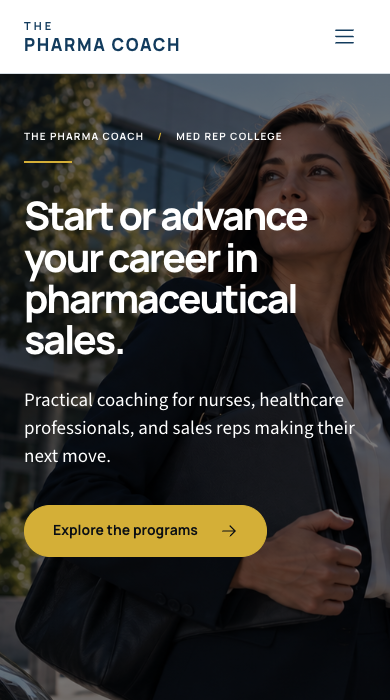
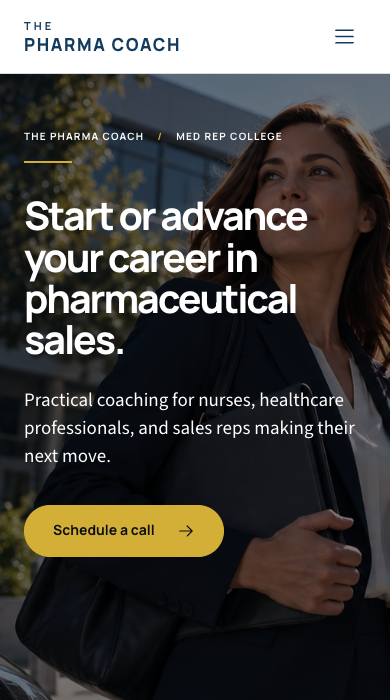
Apply Pharma Coach review comments to local preview

Changed region(s): [[0.5231, 0.72, 0.7077, 0.81], [0.1231, 0.75, 0.5231, 0.78]]

diff --git a/src/App.jsx b/src/App.jsx
@@ -2,6 +2,7 @@ import { useState } from "react";
 import { ArrowRight, List, X } from "@phosphor-icons/react";
 
 const A = `${import.meta.env.BASE_URL}assets/source/`;
+const bookingUrl = "https://medrepcollege.com/book-a-call-with-jebb";
 
 const programs = [
   { tier: "Self-paced", name: "Fast Track Academy", price: "$899", note: "A focused path for turning your current experience into a pharmaceutical-sales job search.", href: "https://medrepcollege.com/fast-track-checkout", cta: "Start my pharma path" },
@@ -10,10 +11,10 @@ const programs = [
 ];
 
 const objections = [
-  ["Do I need pharmaceutical sales experience?", "No. Your nursing and healthcare experience gives you clinical fluency, credibility and an understanding of how providers make decisions. The work is learning how to position those strengths for a commercial role."],
-  ["How does my nursing experience translate to pharma sales?", "You already educate patients, communicate with providers, build trust and make complex clinical information understandable. Those are valuable strengths in pharma sales when they are connected to business outcomes and a clear sales story."],
-  ["What if I have healthcare experience but no formal sales experience?", "You are not starting from zero. Patient education, care coordination, provider communication and influencing better outcomes all demonstrate transferable skills. Coaching helps you translate them into the language hiring managers expect."],
-  ["How do I know pharmaceutical sales is the right fit for me?", "Pharma is often a strong fit for healthcare professionals who enjoy science, relationship-building and explaining how treatments work. A career diagnosis helps you assess the role, the lifestyle and your clearest path before you begin applying."],
+  ["Do I need pharmaceutical sales experience?", "No. Sales, healthcare, teaching and other customer-facing backgrounds can bring transferable strengths. The work is showing how your results, relationships and ability to learn complex information fit a pharmaceutical sales role."],
+  ["How does my sales or healthcare experience translate to pharma?", "Sales professionals can show prospecting, relationship-building and performance results. Healthcare professionals can show clinical fluency, provider communication and patient education. Both need a clear story that connects those strengths to pharmaceutical sales."],
+  ["What if I have no formal sales experience?", "You are not necessarily starting from zero. Teaching, patient education, care coordination and other roles can demonstrate communication, influence and follow-through. Coaching helps you identify credible examples and present them in the language hiring managers expect."],
+  ["How do I know pharmaceutical sales is the right fit for me?", "Consider whether you enjoy science, relationship-building, explaining complex information and being accountable for commercial results. A career diagnosis can help you assess the role, the lifestyle and your next step before you apply."],
   ["Why pharma instead of medical device sales?", "Pharma often suits people drawn to clinical science, mechanisms of action and long-term provider relationships. Device sales is typically more procedure- and engineering-oriented. The right choice depends on how you think, work and want to spend your day."],
 ];
 
@@ -37,7 +38,7 @@ function Header() {
       </button>
       <nav id="primary-nav" className={open ? "nav nav--open" : "nav"} aria-label="Primary navigation">
         {links.map(([label, href]) => <a key={label} href={href} onClick={() => setOpen(false)}>{label}</a>)}
-        <Button href="https://www.thepharmacoach.com/apply-for-pharmaceutical-sales-career-coaching">Let's talk</Button>
+        <Button href={bookingUrl}>Schedule a call</Button>
       </nav>
     </header>
   );
@@ -55,12 +56,12 @@ export function App() {
             <p className="eyebrow eyebrow--light">The Pharma Coach <span aria-hidden="true">/</span> Med Rep College</p>
             <h1 id="hero-title">Start or advance your career in pharmaceutical sales.</h1>
             <p className="lead">Practical coaching for nurses, healthcare professionals, and sales reps making their next move.</p>
-            <Button href="#programs" tone="gold">Explore the programs</Button>
+            <Button href={bookingUrl} tone="gold">Schedule a call</Button>
           </div>
         </section>
 
         <section className="brand-strip" aria-label="What we help you do">
-          <a href="#why-pharma"><span>01</span><strong>Understand the field</strong><p>See how your healthcare experience translates to pharmaceutical sales.</p><ArrowRight size={19} aria-hidden="true" /></a>
+          <a href="#why-pharma"><span>01</span><strong>Understand the field</strong><p>See how your sales or healthcare experience translates to pharmaceutical sales.</p><ArrowRight size={19} aria-hidden="true" /></a>
           <a href="#method"><span>02</span><strong>Build your strategy</strong><p>Position your strengths with the $100K Med Rep Method.</p><ArrowRight size={19} aria-hidden="true" /></a>
           <a href="#programs"><span>03</span><strong>Make your move</strong><p>Choose the right level of coaching for your next career step.</p><ArrowRight size={19} aria-hidden="true" /></a>
         </section>
@@ -68,14 +69,14 @@ export function App() {
         <section id="why-pharma" className="why-pharma section-pad">
           <div className="why-pharma__intro">
             <p className="eyebrow">Why Pharma Sales</p>
-            <h2>Keep the healthcare knowledge. Change what your career can give you.</h2>
-            <p className="lead">Pharma sales lets nurses and healthcare professionals bring clinical credibility into a career built around education, influence and trusted provider relationships.</p>
+            <h2>Bring your experience into a bigger career move.</h2>
+            <p className="lead">Pharma sales gives people from sales and healthcare backgrounds a way to use their existing strengths in a career built around education, influence and trusted provider relationships.</p>
           </div>
           <div className="why-pharma__reasons">
-            <article><span>01</span><div><h3>Use your clinical advantage</h3><p>Turn your understanding of treatments, patient needs and provider priorities into relevant conversations with healthcare professionals.</p></div></article>
+            <article><span>01</span><div><h3>Use your existing advantage</h3><p>Bring sales results or clinical knowledge into relevant conversations with healthcare professionals.</p></div></article>
             <article><span>02</span><div><h3>Expand your earning opportunity</h3><p>Pursue roles that can combine salary, performance incentives and benefits while building a long-term commercial career.</p></div></article>
             <article><span>03</span><div><h3>Create more autonomy</h3><p>Move toward a field-based career with greater ownership of your schedule, territory and professional relationships.</p></div></article>
-            <article><span>04</span><div><h3>Move beyond bedside burnout</h3><p>Stay connected to healthcare and patient impact without remaining tied to rigid shifts, physical demands or constant patient load.</p></div></article>
+            <article><span>04</span><div><h3>Move beyond a stalled path</h3><p>Pursue a new challenge or your next level in healthcare without staying tied to the role that no longer fits.</p></div></article>
           </div>
         </section>
 
@@ -114,16 +115,16 @@ export function App() {
 
         <section className="outcomes section-pad">
           <div className="outcomes__intro">
-            <p className="eyebrow">What the career change is really for</p>
-            <h2>More upside. More autonomy. A career beyond shifts and burnout.</h2>
+            <p className="eyebrow">What your next move is really for</p>
+            <h2>More upside. More autonomy. A career with room to grow.</h2>
           </div>
           <div className="outcome-grid">
             <article><span>01</span><h3>Earning upside</h3><p>Compete for roles with salary, commission and benefits—without treating any result as guaranteed.</p></article>
-            <article><span>02</span><h3>More control</h3><p>Pursue a field known for greater schedule autonomy than rigid shifts or constant patient load.</p></article>
+            <article><span>02</span><h3>More control</h3><p>Pursue a field role with more ownership of your territory, schedule and professional relationships.</p></article>
             <article><span>03</span><h3>A better fit</h3><p>Use your science, relationship and communication strengths in a career built around influence.</p></article>
           </div>
           <div className="photo-band">
-            <img src={`${A}jebb-authentic-family-candid.jpg`} alt="Jebb Ruff with his mother in a candid family photo" />
+            <img src={`${A}jebb-executive-portrait-review.png`} alt="Executive-style portrait of Jebb Ruff" />
             <blockquote><p>Pharmaceutical sales rewards people who understand the science, earn trust and make complex information simple.</p><cite>The Pharma Coach approach</cite></blockquote>
           </div>
         </section>
@@ -148,7 +149,7 @@ export function App() {
         </section>
 
         <section className="faq section-pad">
-          <div><p className="eyebrow eyebrow--light">Before you decide</p><h2>Can nursing really become a pharma sales career?</h2><p>Start with the questions experienced nurses and healthcare professionals ask when they are serious about making the move.</p></div>
+          <div><p className="eyebrow eyebrow--light">Before you decide</p><h2>Is pharmaceutical sales the right next step for you?</h2><p>Start with the questions sales professionals, healthcare workers and career changers ask when they are ready to enter or advance in the field.</p></div>
           <div className="accordion">
             {objections.map(([q, a], i) => <article key={q}>
               <button aria-expanded={active === i} onClick={() => setActive(active === i ? -1 : i)}><span>{q}</span><b aria-hidden="true">{active === i ? "−" : "+"}</b></button>
@@ -159,7 +160,7 @@ export function App() {
 
         <section className="final-cta section-pad">
           <div><p className="eyebrow">Your next chapter</p><h2>Ready to make your experience count in pharma?</h2><p>Find out whether pharmaceutical sales fits you—and what your clearest path into the field looks like.</p></div>
-          <Button href="https://medrepcollege.com/book-a-call-with-jebb">Book my career diagnosis</Button>
+          <Button href={bookingUrl}>Book my career diagnosis</Button>
         </section>
       </main>
       <footer>

diff --git a/design-qa.md b/design-qa.md
@@ -1,6 +1,6 @@
 # Design QA — The Pharma Coach brand refresh
 
-Final result: passed
+Final result: local preview passed; AI-edited Jebb portrait requires owner and Jebb approval before publication
 
 ## Source and capture
 
@@ -8,6 +8,7 @@ Final result: passed
 - Owner override: Jebb's 2026-09-21 email "colors for websites and emails + fonts" specifies `#0B0F14`, `#FFFFFF`, `#123B5D`, `#D4AF37`, Manrope headings, and Source Sans 3 body. These take precedence over the mockup's copper color and placeholder typography.
 - Browser-rendered implementation: `design-qa-desktop.png`, 1280 × 800 pixels, captured at a 1280 × 800 CSS viewport with Playwright CLI; device scale 1. The in-app Browser was used first, but its resized captures composited duplicate page regions during this copy update, so Playwright supplied the clean QA screenshots.
 - Mobile implementation: `design-qa-mobile.png`, 390 × 700 pixels at a short 390 × 700 CSS viewport; device scale 1.
+- Portrait-band implementation: `design-qa-portrait.png`, 1280 × 800 viewport scrolled to the outcomes photo band. It shows the executive-style review candidate beside the quote.
 - Historical comparison: `design-qa-comparison.png` shows the approved concept against the implementation before the later owner-requested headroom and button-position adjustments. Current desktop and mobile renders are in the two standalone screenshots.
 - State: homepage at top, navigation closed. Primary interactions were also tested in the browser.
 
@@ -20,7 +21,7 @@ The five required fidelity surfaces were checked:
 - Typography: Manrope headings and Source Sans 3 body match Jebb's email. The large headline and compact navigation keep the intended hierarchy; mobile wrapping is readable and unclipped.
 - Spacing and layout: after reducing hero height and widening the content grid, the masthead, hero, and capability strip align with the selected composition. Desktop, tablet (820px), and mobile (390px) were visually checked.
 - Colors and tokens: effective site colors use Jebb's black, white, navy, and gold; muted surfaces are transparent navy on white. The mockup's copper was intentionally rejected.
-- Image quality: new generated field-sales hero and HCP-conversation assets replace the nurse-at-home imagery in key sales sections. Image subjects, crop, sharpness, and text contrast were checked; generated characters and facility are fictional and documented in `public/assets/source/ASSET-SOURCES.md`.
+- Image quality: generated field-sales hero and HCP-conversation assets replace the nurse-at-home imagery in key sales sections. The Jebb portrait is an AI-edited review candidate based on his authentic candid; his likeness, executive framing and band crop were inspected. It is not an actual photo-shoot image and is gated from publication pending approval. Asset provenance is in `public/assets/source/ASSET-SOURCES.md`.
 - Copy and content: owner-approved hero wording and matching browser title/metadata are present; program names, prices, and existing official conversion destinations were retained. Above-the-fold copy diff: headline and subhead changed by owner request; eyebrow, CTA, navigation, and capability labels did not change.
 
 Focused review of the hero in the comparison image found the head crop and the beginning of the three-column strip to be the main fidelity risks. Both were corrected. No separate focused crop was needed because these details are readable in the 2560-pixel-wide comparison image.
@@ -32,6 +33,7 @@ Focused review of the hero in the comparison image found the head crop and the b
 3. Post-fix evidence: `design-qa-comparison.png`; mobile screenshot and browser interaction check confirm the menu closes and the `#programs` target appears. FAQ expansion was tested.
 4. Owner copy update: the headline, subhead, and page metadata were changed to address both starting and advancing a pharmaceutical-sales career. Clean 1280 × 800 and 390 × 844 screenshots show no clipping or primary-control obstruction. The only Playwright console error was a pre-existing missing `/favicon.ico` (P3, unrelated to this copy change).
 5. Owner headroom and fold update: the hero photo was raised 30px, roughly halving the space above the subject at the 777px preview width. The complete copy block was then raised 70px on tablet and 80px on narrow mobile. Clean 1280 × 800 and 390 × 700 captures confirm the gold CTA remains visible without scrolling; it ends around y=557 in the short mobile viewport. Navigation, CTA text, and all other above-the-fold copy remain unchanged.
+6. Five browser comments: both primary CTAs now read “Schedule a call” and resolve to the existing Med Rep College discovery-call page; the first capability description includes sales or healthcare experience; the outcome band uses an executive-style Jebb review portrait; the FAQ heading, introduction and answers cover sales and healthcare paths rather than only nursing. Nearby nurse-only copy in the why-pharma and outcome sections was broadened so the page does not contradict the new audience. The booking destination currently advertises a $25 discovery call; no checkout was performed. In-app Browser verified labels, hrefs, image load and accordion expansion. Clean Playwright desktop/mobile renders were used because resized in-app Browser captures duplicated page regions. At 390px, the mobile menu exposes the new booking CTA and has no horizontal overflow (`scrollWidth === innerWidth === 390`). Above-the-fold copy diff: the two CTA labels and the first capability description changed by owner request; header/hero headline, subhead, eyebrow, other navigation items and layout remain the same.
 
 ## Follow-up polish
 

diff --git a/public/assets/source/ASSET-SOURCES.md b/public/assets/source/ASSET-SOURCES.md
@@ -2,5 +2,6 @@
 
 - `pharma-nurse-work-from-home-v6-approved.png` — supplied and approved by the site owner on 2026-09-21.
 - `jebb-authentic-family-candid.jpg` — resized, metadata-stripped derivative of the candid `Career Coaching Business Coaching` iPhone photo published on the official [About Jebb Ruff](https://www.thepharmacoach.com/about) page, retrieved 2026-09-21. The original file's embedded location and device metadata were removed before repository inclusion.
+- `jebb-executive-portrait-review.png` — AI-edited local review candidate derived from `jebb-authentic-family-candid.jpg`, using Jebb (the person on the right) as the identity reference. Wardrobe and background are synthetic; this is not a documentary photo or evidence of an actual photo shoot. It must not be published without Shanee and Jebb approving the likeness and use.
 - `pharma-field-hero.png` — AI-generated editorial hero image for the 2026-09-22 "Advance the work" design direction. The depicted people and facility are fictional and do not imply a real pharmaceutical company or endorsement.
 - `pharma-hcp-conversation.png` — AI-generated editorial field-conversation image for the same design direction. The depicted people and facility are fictional.
